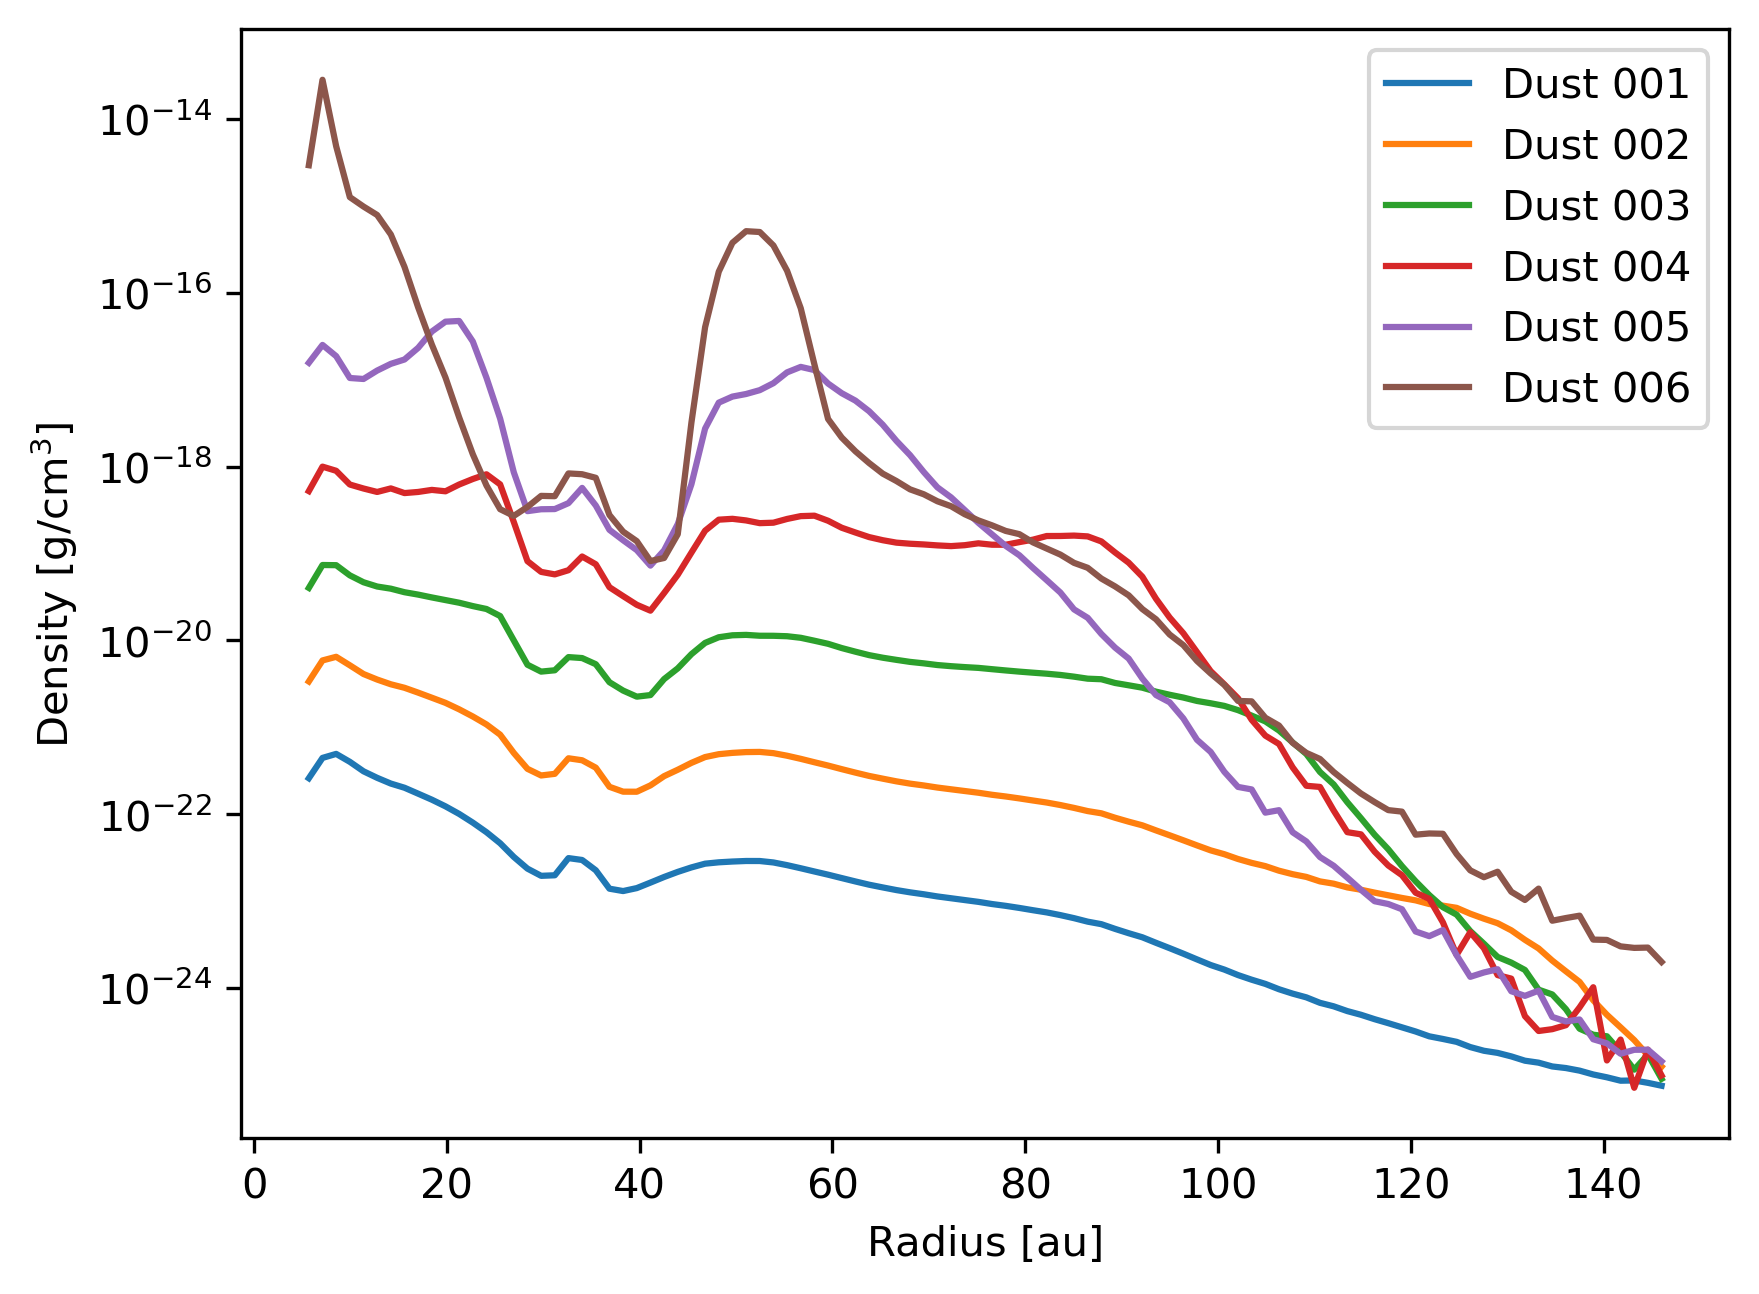
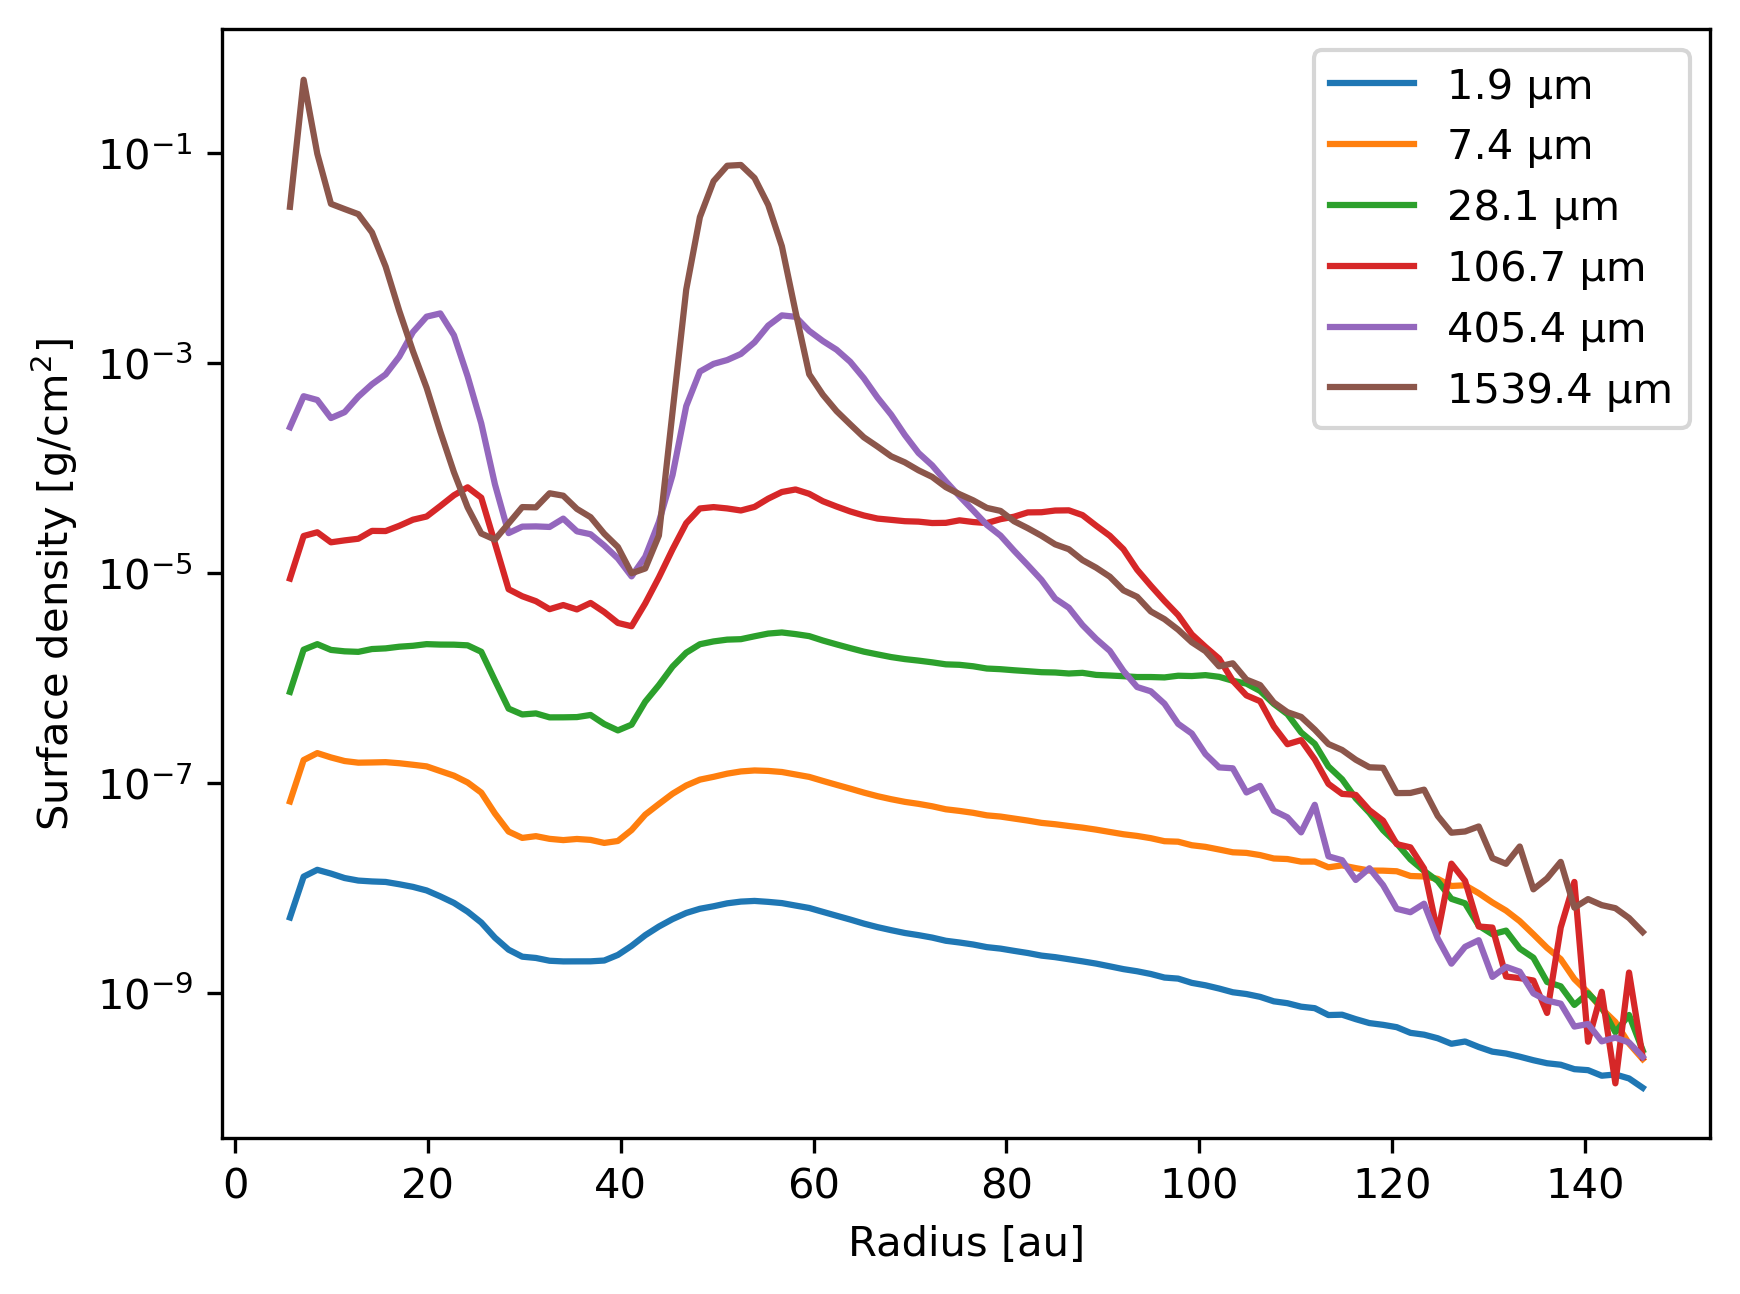
Rename base_array_name to base_profile_name
Rename base_array_name to base_profile_name in Profile. Also fix bug in
getting the units of a profile.

diff --git a/plonk/analysis/profile.py b/plonk/analysis/profile.py
@@ -383,8 +383,8 @@ class Profile:
 
         return self
 
-    def base_array_name(self, name: str) -> str:
-        """Get the base array name from a string.
+    def base_profile_name(self, name: str) -> str:
+        """Get the base profile name from a string.
 
         For example, 'velocity_x' returns 'velocity', 'density' returns
         'density', 'dust_fraction_001' returns 'dust_fraction', 'x'
@@ -405,6 +405,16 @@ class Profile:
         except ValueError:
             if name == self._coordinate:
                 return 'position'
+            name_root = '_'.join(name.split('_')[:-1])
+            name_suffix = name.split('_')[-1]
+            if name_root == '' and name_suffix in ('x', 'y', 'z'):
+                return 'position'
+            if name_root in self.snap._array_aliases:
+                return self.snap._array_aliases[name_root]
+            if name_suffix in ('x', 'y', 'z', 'mag'):
+                return name_root
+            if _str_is_int(name_suffix):
+                return name_root
             return name
 
     def plot(
@@ -678,7 +688,7 @@ def _1d_arrays(arrays: list) -> list:
 def _get_unit(profile, name, units):
     if name is None:
         return None
-    base_name = profile.base_array_name(name)
+    base_name = profile.base_profile_name(name)
     if units is not None:
         if name in units:
             return 1 * plonk_units(units[name])
@@ -713,3 +723,11 @@ def _std_plot(profile, xdata, ydata, yname, yunit, std, ax):
         )
     elif std == 'errorbar':
         ax.errorbar(xdata, y_mean, yerr=y_std, linestyle='', color=color, alpha=0.5)
+
+
+def _str_is_int(string: str) -> bool:
+    try:
+        int(string)
+        return True
+    except ValueError:
+        return False

diff --git a/plonk/snap/utils.py b/plonk/snap/utils.py
@@ -51,7 +51,7 @@ def add_aliases(snap: SnapLike, filename: Union[str, Path] = None):
         snap.add_alias(key, val)
 
 
-def dust_array_names(snap: SnapLike, name: str) -> List[str]:
+def dust_array_names(snap: SnapLike, name: str, add_gas: bool = False) -> List[str]:
     """List dust array names.
 
     Parameters
@@ -60,6 +60,8 @@ def dust_array_names(snap: SnapLike, name: str) -> List[str]:
         The Snap object.
     name
         The base array name, e.g. "dust_density" or "stopping_time".
+    add_gas
+        If True add the gas version of the dust name.
 
     Returns
     -------
@@ -76,5 +78,19 @@ def dust_array_names(snap: SnapLike, name: str) -> List[str]:
      'dust_density_003',
      'dust_density_004',
      'dust_density_005']
+
+    Get the dust density strings with gas.
+
+    >>> dust_name_list(snap=snap, name='dust_density' add_gas=True)
+    ['gas_density',
+     'dust_density_001',
+     'dust_density_002',
+     'dust_density_003',
+     'dust_density_004',
+     'dust_density_005']
     """
-    return [f'{name}_{n+1:03}' for n in range(snap.num_dust_species)]
+    names = list()
+    if add_gas:
+        names.append(f'{name.replace("dust", "gas")}')
+    names += [f'{name}_{n+1:03}' for n in range(snap.num_dust_species)]
+    return names

diff --git a/plonk/visualize/animation.py b/plonk/visualize/animation.py
@@ -250,9 +250,9 @@ def animation_profiles(
 
     units = kwargs.get('units')
     if units is not None:
-        xunit = plonk_units(units.get(prof.base_array_name(x), str(prof[x].units)))
+        xunit = plonk_units(units.get(prof.base_profile_name(x), str(prof[x].units)))
         yunits = [
-            plonk_units(units.get(prof.base_array_name(y), str(prof[y].units)))
+            plonk_units(units.get(prof.base_profile_name(y), str(prof[y].units)))
             for y in ys
         ]
     else:

diff --git a/plonk/snap/__init__.py b/plonk/snap/__init__.py
@@ -6,13 +6,14 @@ snapshot file.
 
 from .readers import load_snap
 from .snap import Sinks, Snap, SnapLike, SubSnap
-from .utils import gravitational_constant_in_code_units
+from .utils import dust_array_names, gravitational_constant_in_code_units
 
 __all__ = [
     'Sinks',
     'Snap',
     'SnapLike',
     'SubSnap',
+    'dust_array_names',
     'gravitational_constant_in_code_units',
     'load_snap',
 ]

diff --git a/docs/source/examples/dust-profiles.rst b/docs/source/examples/dust-profiles.rst
@@ -2,7 +2,7 @@
 Dust profiles
 -------------
 
-Plot the dust density profile per species.
+Plot the surface density profile of each dust species.
 
 .. figure:: ../_static/dust_profiles.png
 
@@ -15,22 +15,23 @@ Plot the dust density profile per species.
 .. code-block:: python
 
     import plonk
+    from plonk.snap import dust_array_names
 
     snap = plonk.load_snap('dstau2mj_00130.h5')
 
     prof = plonk.load_profile(snap)
 
-    prof.set_units(position='au', dust_density='g/cm^3')
+    # Set the profile units for plotting
+    prof.set_units(position='au', dust_surface_density='g/cm^2')
 
-    # The line below produces a list of strings like:
-    #   ['dust_density_001',
-    #    'dust_density_002',
-    #    'dust_density_003',
-    #    'dust_density_004',
-    #    'dust_density_005',
-    #    'dust_density_006']
-    y = [f'dust_density_{n+1:03}' for n in range(snap.num_dust_species)]
-    labels = [f'Dust {n+1:03}' for n in range(snap.num_dust_species)]
+    # Get the profile names 'dust_density' for each dust species
+    y = dust_array_names(snap=snap, name='dust_surface_density')
 
-    ax_kwargs = {'ylabel': r'Density [g/cm${}^3$]', 'yscale': 'log'}
-    ax = prof.plot(x='radius', y=y, label=labels, ax_kwargs=ax_kwargs)
+    # Get the grain size per species as labels for the plot
+    labels = [f'{size:.1f~P}' for size in snap.properties['grain_size'].to('micrometer')]
+
+    # Set the y-label and set the y-scale to logarithmic
+    ax_kwargs = {'ylabel': r'Surface density [g/cm${}^2$]', 'yscale': 'log'}
+
+    # Make the plot
+    prof.plot(x='radius', y=y, label=labels, ax_kwargs=ax_kwargs)

diff --git a/README.md b/README.md
@@ -43,8 +43,8 @@ To read in a simulation with snapshot files like `disc_00000.h5`, and global qua
 >>> simulation = plonk.load_sim(prefix='disc')
 >>> simulation.snaps
 [<plonk.Snap "disc_00000.h5">,
-...
-<plonk.Snap "disc_00030.h5">]
+ ...
+ <plonk.Snap "disc_00030.h5">]
 ```
 
 You can load individual snapshots and access the particle arrays:
